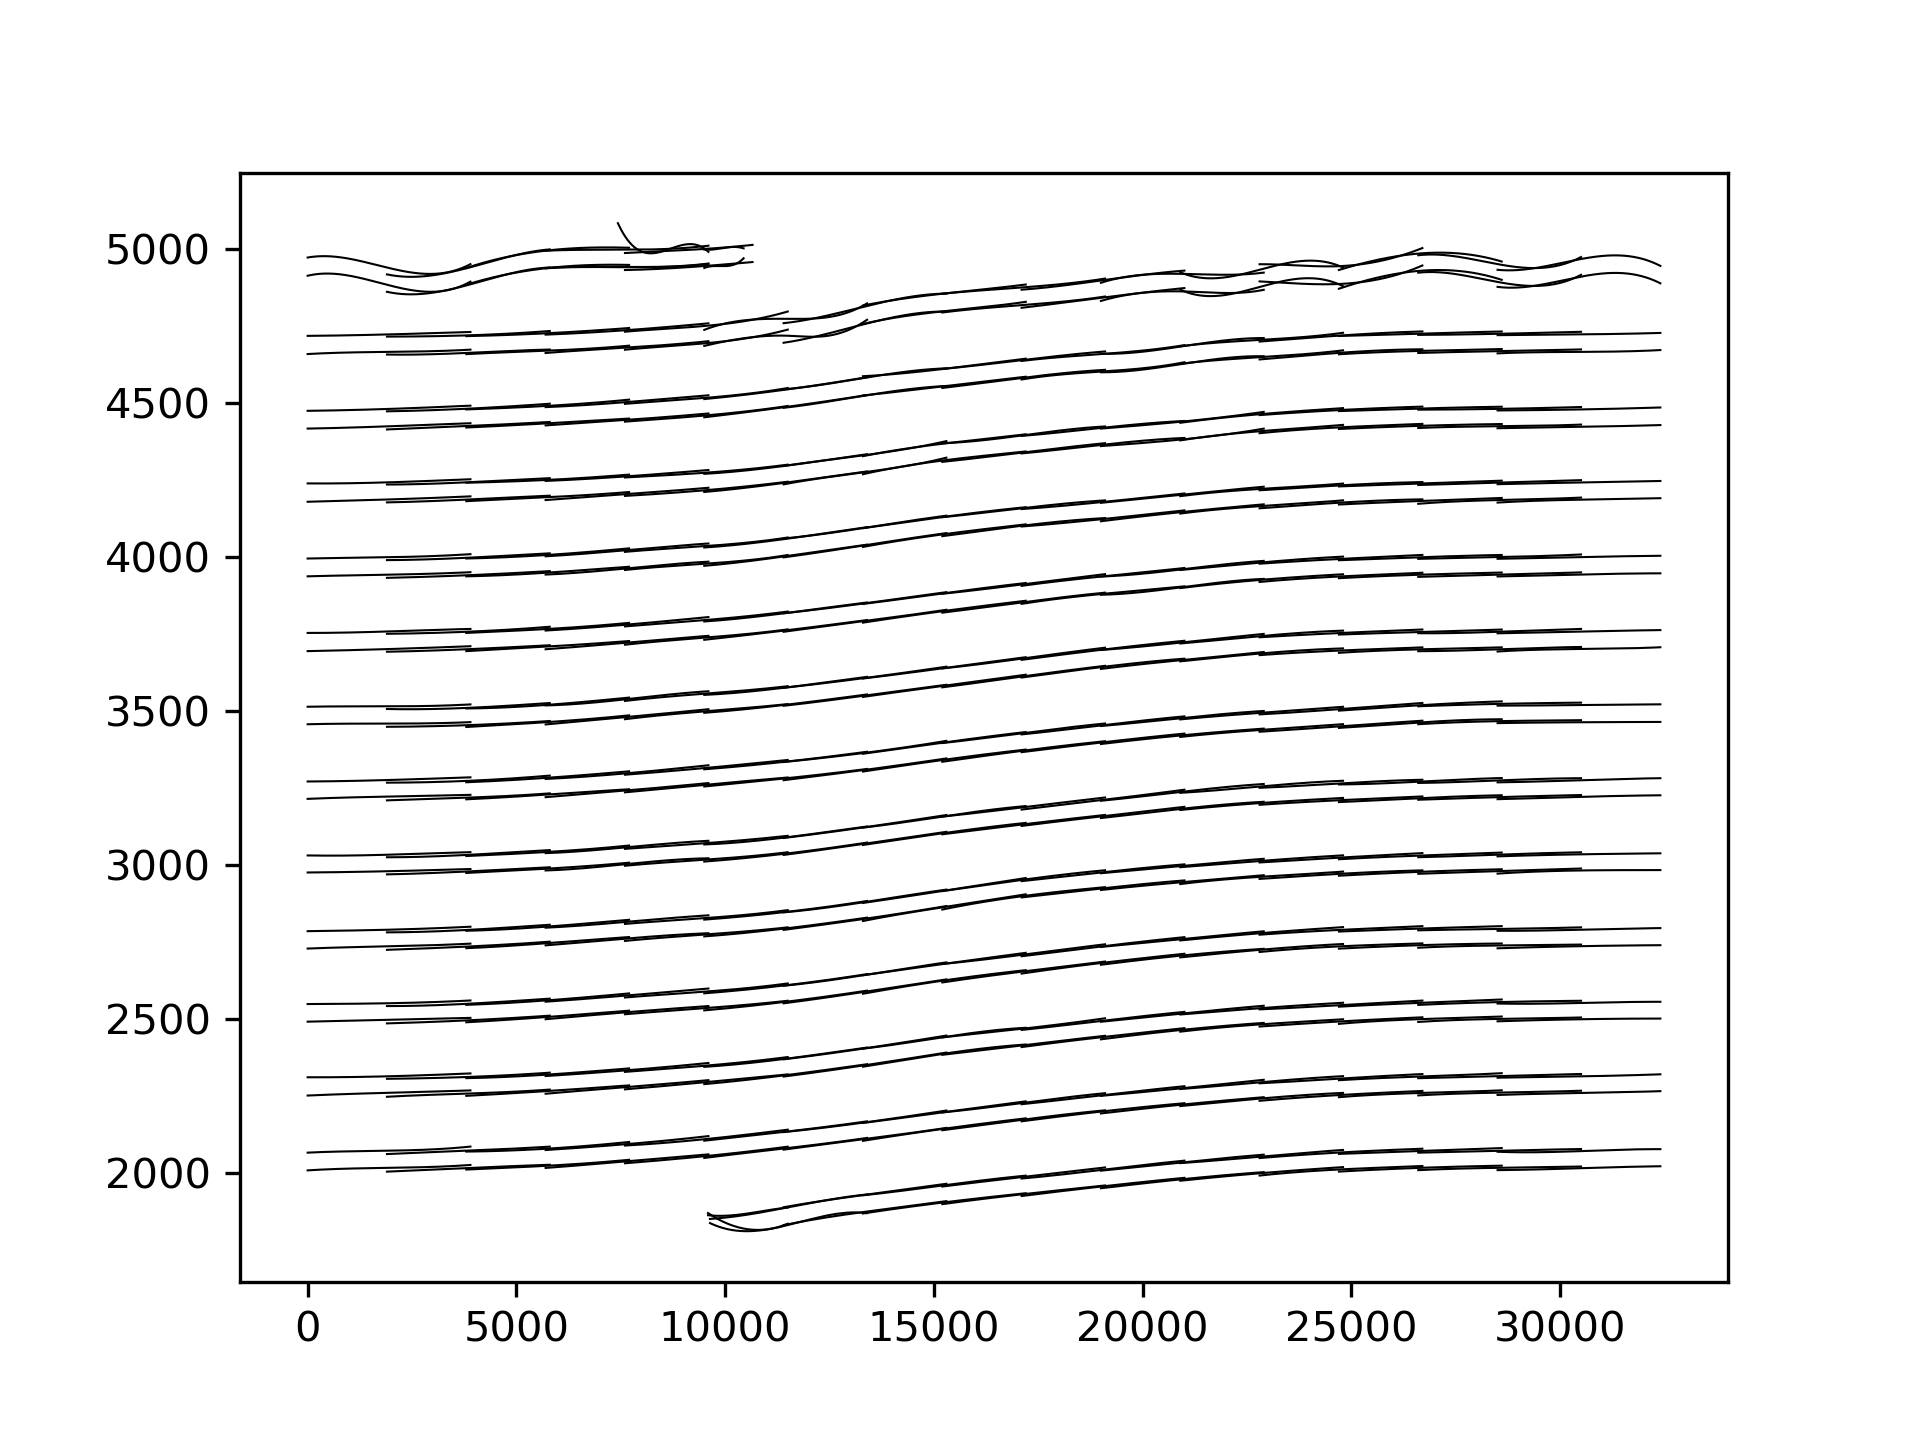
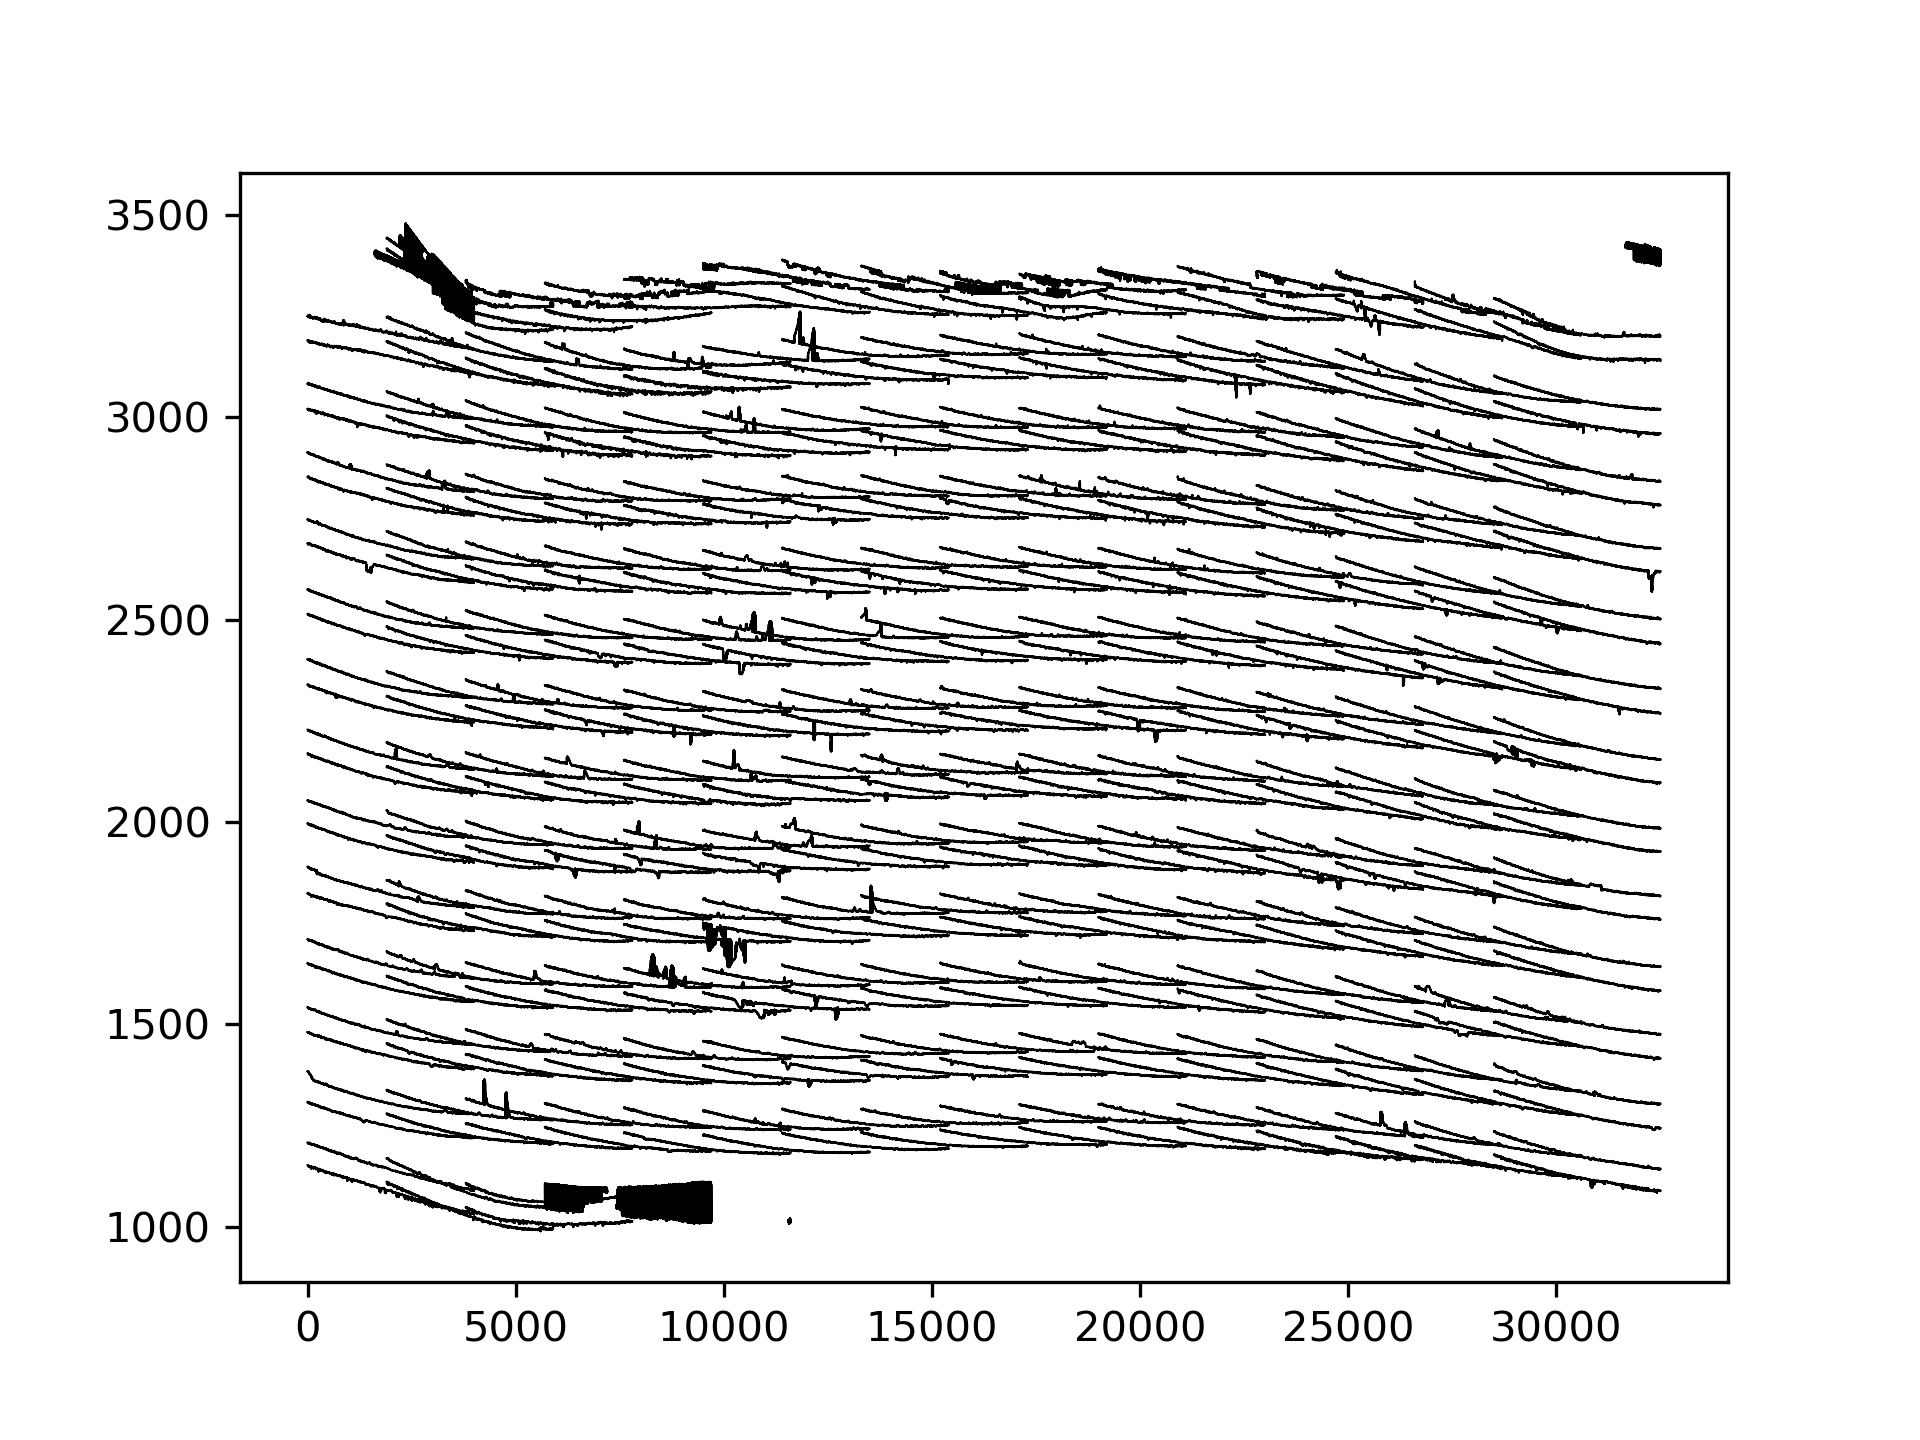
Edge detection in new illumination

diff --git a/sectorImage/core/image.py b/sectorImage/core/image.py
@@ -3,6 +3,7 @@ import time
 from scipy import ndimage
 from .toolkit import vectools
 import matplotlib.pyplot as plt
+import matplotlib
 import math
 # from skimage.filters import threshold_local
 
@@ -168,47 +169,75 @@ class Image:
         # Distinguish band from background in binary matrix
         print('Convolving')
         kernel = [1, -2, 1]
-        laplacian = np.abs(ndimage.convolve1d(matrix, kernel, axis=1))
+        gaussian = ndimage.gaussian_filter1d(matrix, sigma=3, axis=1)
+        laplacian = np.abs(ndimage.convolve1d(gaussian, kernel, axis=1))
 
         # morph_lap = np.abs(ndimage.morphological_laplace(matrix, size=3))
         laplacian *= (1.0 / laplacian.max())
 
         # Threshold to cancel noise outside the band region
         print('Thresholding')
-        thresh = 0.08
+        thresh = 0.01
         binary = self.binaryThresholding(laplacian, thresh)
 
         print('Binary Closing')
         # Closing to obtain continuous edge
+        """
         structure = np.ones((11, 3))
-        mask = ndimage.morphology.binary_closing(binary, iterations=10, structure=structure)
+        mask = ndimage.morphology.binary_closing(binary, iterations=1, structure=structure)
         # Crop mask to significant boundary
         mask_cropped = mask[~np.all(mask == 0, axis=1)]
         # Number of lost angles
         loss = np.shape(matrix)[0] - np.shape(mask_cropped)[0]
-
+        """
+        loss = 0
+        mask_cropped = binary
         # binary_fill_holes closes all holes that are completely surrounded by True values
         # Since it does not close to the boundary of the image, artificial True paddings are
         # added. Upped and lower padding have to be added separately to avoid filling of the
         # Gap between bands.
 
-        # Add True boundary to bottom to close lower edge holes
+        # Add True boundary to bottom to close lower edgmaske holes
         print('Filling')
-        mask_low = np.vstack((mask_cropped, np.ones((1, np.shape(binary)[1]))))
-        mask_lowFill = ndimage.morphology.binary_fill_holes(mask_low)[:-1]
+        #mask_low = np.vstack((mask_cropped, np.ones((1, np.shape(binary)[1]))))
+        #mask_lowFill = ndimage.morphology.binary_fill_holes(mask_low)[:-1]
 
         # Repeat for top boundary
-        mask_high = np.vstack((np.ones((1, np.shape(binary)[1])), mask_lowFill))
-        mask_final = ndimage.morphology.binary_fill_holes(mask_high)[1:]
+        #mask_high = np.vstack((np.ones((1, np.shape(binary)[1])), mask_lowFill))
+        #mask_allFill = ndimage.morphology.binary_fill_holes(mask_high)[1:]
 
+        mask_allFill = ndimage.morphology.binary_fill_holes(mask_cropped)
+        mask_inv = 1 - mask_allFill
+        mask_final = 1 - ndimage.morphology.binary_fill_holes(mask_inv)
+
+        print('Logical rolling')
+        notLeft = np.roll(mask_final, 1, axis=0)
+        #notRight = 1 - np.roll(mask_final, -1, axis=0)
+        notTop = np.roll(mask_final, 1, axis=1)
+        #notBottom = 1 - np.roll(mask_final, -1, axis=1)
+        edges = (np.logical_xor(notLeft, mask_final) +
+                 np.logical_xor(notTop, mask_final)
+                 )
+        """
+        structure = np.ones((3, 3))
+        labeled_edges, num_features = ndimage.label(edges[1:-1], structure=structure)
+        print(num_features)
+        unique, counts = np.unique(labeled_edges, return_counts=True)
+        bands = []
+        for u, c in zip(unique, counts):
+            if c > 100 and u != 0:
+                band = np.argwhere(labeled_edges == u)
+                bands.append(band)
+
+        print(bands)
+        """
         if plot:
             print('Plotting')
             fig = plt.figure()
             ax = fig.add_subplot(111)
-            ax.imshow(mask_final, aspect='auto')
-            #ax.imshow(mask, aspect='auto')
+            ax.imshow(edges)
             ax.set_xlabel('Radius [px]')
             ax.set_ylabel('Angle [idx]')
-            fig.savefig('img/out/filter.png', dpi=600)
+            fig.savefig('img/out/filter.png', dpi=1200, interpolation='none')
 
-        return mask_final, loss
+        return edges  # , loss

diff --git a/sectorImage/core/singleImage.py b/sectorImage/core/singleImage.py
@@ -1,5 +1,6 @@
 from . import image
 from . import linewalker
+from . import lineParser as lp
 import numpy as np
 
 
@@ -13,8 +14,9 @@ class SingleImage:
         angularLines, self.angles = self.img.lineSweep(radius,
                                                        resolution=resolution,
                                                        interpolationOrder=interpolationOrder)
-        self.features, self.loss = self.img.detectFeatures(angularLines, plot=False)
-        self.angles = self.angles[int(self.loss / 2):int(-self.loss / 2)]
+        # self.features, self.loss = self.img.detectFeatures(angularLines, plot=True)
+        self.features = self.img.detectFeatures(angularLines, plot=False)
+        # self.angles = self.angles[int(self.loss / 2):int(-self.loss / 2)]
         if npz is not None:
             print('Storing Features in', npz)
             np.savez(npz, f=self.features, a=self.angles)
@@ -26,9 +28,12 @@ class SingleImage:
         self.angles = npzfile['a']
 
     def getLines(self):
+        """
         self.walker = linewalker.Walker()
         self.walker.scanMultiple(self.features)
-        self.rbands, self.phis = self.walker.fastFeatures(plot=False)
+        self.rbands, self.phis = self.walker.fastFeatures(plot=True)
+        """
+        self.rbands, self.phis = lp.LineParser(self.features)
 
     def __repr__(self):
         retstr = 'Image Processing Object for ' + str(self.fn)

diff --git a/hardware/stepper.py b/hardware/stepper.py
@@ -28,7 +28,7 @@ class Stepper:
         self.mode = 8  # Stepper mode, default is eights
         self.current = 1000  # in mA
         self.vmax = 10000  # Maximum velocity in steps/s
-        self.ramping = 50000
+        self.ramping = 30000
         self.normTurn = 200  # Normalized steps per turn
         if autoEnable:
             self.enable()
@@ -67,22 +67,23 @@ class Stepper:
     def cb_position_reached(self, position):
         print('Reached Target')
 
-    def discreteRotation(self, n, synchfps=1):
+    def discreteRotation(self, n):
         # Enable Laser only after a position is reached
         # Desynchronization can be easily seen if pictures have no laser line
         self.stepper.register_callback(self.stepper.CALLBACK_POSITION_REACHED, lambda x: self.cb_position_reached(x))
 
-        time.sleep(0.55)
+        # time.sleep(0.55)
+        time.sleep(0.18)
 
         # Calculate steps for n images
         steps = int(self.mode * self.normTurn // float(n))
+        print(steps)
         for i in range(0, n):
             # Rotate section
             self.stepper.set_steps(steps)
-
-            # Wait FPS Time of camera
-            time.sleep(1.0 / synchfps)
-
+            # Wait FPS Time of camera and release time (calibrated for shutter of 1/200)
+            deadtime = 1.0 / 5.88
+            time.sleep(deadtime)
         return
 
 

diff --git a/sectorImage/core/lineParser.py b/sectorImage/core/lineParser.py
@@ -1,0 +1,40 @@
+import numpy as np
+from scipy import ndimage
+import scipy
+import matplotlib.pyplot as plt
+
+
+def LineParser(edges, smoothing=None, plot=False):
+    structure = np.ones((3, 3))
+    labeled_edges, num_features = ndimage.label(edges[1:-1], structure=structure)
+    print(num_features)
+    unique, counts = np.unique(labeled_edges, return_counts=True)
+    bands = []
+    for u, c in zip(unique, counts):
+        if c > 100 and u != 0:
+            band = np.argwhere(labeled_edges == u)
+            bands.append(band)
+
+    print('Interpolating Fast Features')
+    rsplines = []
+    phis = []
+    r_raw = []
+    for path in bands:
+        phi = [float(c[0]) for c in path]
+        r = [float(c[1]) for c in path]
+        # spline = scipy.interpolate.UnivariateSpline(phi, r, s=smoothing)
+        phis.append(phi)
+        # rs = spline(phi)
+        # rsplines.append(rs)
+        r_raw.append(r)
+
+    if plot:
+        fig = plt.figure()
+        ax = fig.add_subplot(111)
+        for rs, phi in zip(rsplines, phis):
+            ax.plot(phi, rs, lw=0.2, color='blue')
+        fig.savefig('img/out/gradients_parsed.jpg', dpi=300)
+
+    # return radius and angle for the interpolated paths
+    # return rsplines, phis
+    return r_raw, phis

diff --git a/sectorImage/core/homography_gpu.py b/sectorImage/core/homography_gpu.py
@@ -15,8 +15,10 @@ def getHomography_GPU(fns, plot=False):
     image1 = np.asarray(pil1)
     image2 = np.asarray(pil2)
     print('Running SIFT on GPU')
-    sift_ocl = sift.SiftPlan(image1.shape, image1.dtype, template=image1, devicetype='GPU')
+    sift_ocl = sift.SiftPlan(image1.shape, image1.dtype, devicetype='GPU')
+
     kp1 = sift_ocl(image1)
+
     kp2 = sift_ocl(image2)
 
     print('Running Match on GPU')
@@ -101,15 +103,9 @@ def getOscillation(directory, n=16):
     print(av_midpoint)
     fig = plt.figure()
     ax = fig.add_subplot(111)
-<<<<<<< HEAD
-    ax.scatter(*zip(*ms_fixed))
-    ax.plot(*zip(*midpoints))
-    ax.scatter(*av_midpoint)
-=======
     ax.scatter(*zip(*ms_fixed), color='r')
-    ax.plot(*zip(*midpoints), lw=0.1, color='g')
+    ax.plot(*zip(*midpoints), lw=0.5, color='g')
     ax.scatter(*av_midpoint, color='b')
->>>>>>> cde1f1fbdc3c78e37ee1b302aa19ef1abd7ea57e
     fig.savefig('img/out/homography_oscillation_GPU.png', dpi=300)
 
 
@@ -129,4 +125,4 @@ if __name__ == '__main__':
     # print(h)
     directory = 'img/src/copper'
     directory = '../hardware'
-    getOscillation(directory, n=22)
+    getOscillation(directory, n=16)

diff --git a/sectorImage/main.py b/sectorImage/main.py
@@ -8,9 +8,9 @@ def main():
 
     t0 = time.time()
 
-    fns = ['img/src/cpt' + str(i) + '.jpg' for i in range(1, 23)]
-    fns = ['../hardware/cpt' + str(i) + '.jpg' for i in range(1, 23)]
-    # fns = ['img/src/cpt5.jpg']
+    #fns = ['img/src/cpt' + str(i) + '.jpg' for i in range(1, 23)]
+    fns = ['../hardware/cpt' + str(i) + '.jpg' for i in range(1, 17)]
+    # fns = ['../hardware/cpt1.jpg']
     s = stitcher.Stitcher(fns, mpflag=True)
     s.loadImages()
     # s.pickleSave()

diff --git a/sectorImage/core/stitcher.py b/sectorImage/core/stitcher.py
@@ -36,7 +36,7 @@ class Stitcher:
         fig = plt.figure()
         ax = fig.add_subplot(111)
         for i, image in enumerate(self.images):
-            for rs, phis in zip(image.walker.rsplines, image.walker.phis):
+            for rs, phis in zip(image.rbands, image.phis):
                 phis = np.array(phis) + i * 1900
                 ax.plot(phis, rs, color='black', lw=0.5)
 

diff --git a/hardware/electrodeCapture.py b/hardware/electrodeCapture.py
@@ -18,5 +18,5 @@ def captureTurn(n, stp, cam):
 if __name__ == '__main__':
     cam = camera.Camera()
     stp = stepper.Stepper(autoEnable=True)
-    captureTurn(22, stp, cam)
+    captureTurn(16, stp, cam)
     stp.disable()
